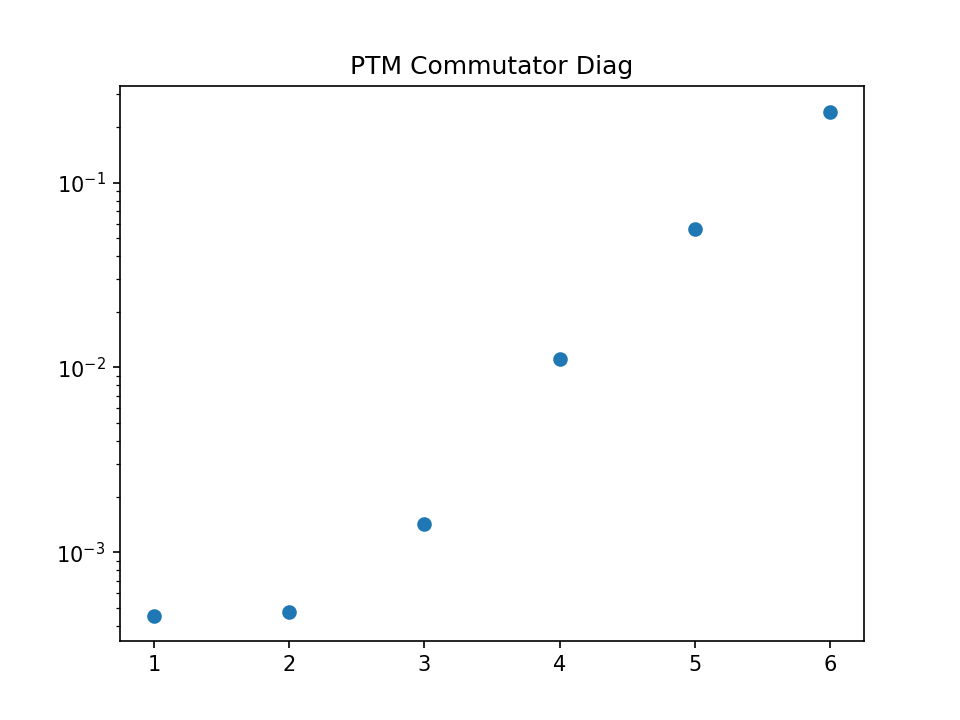
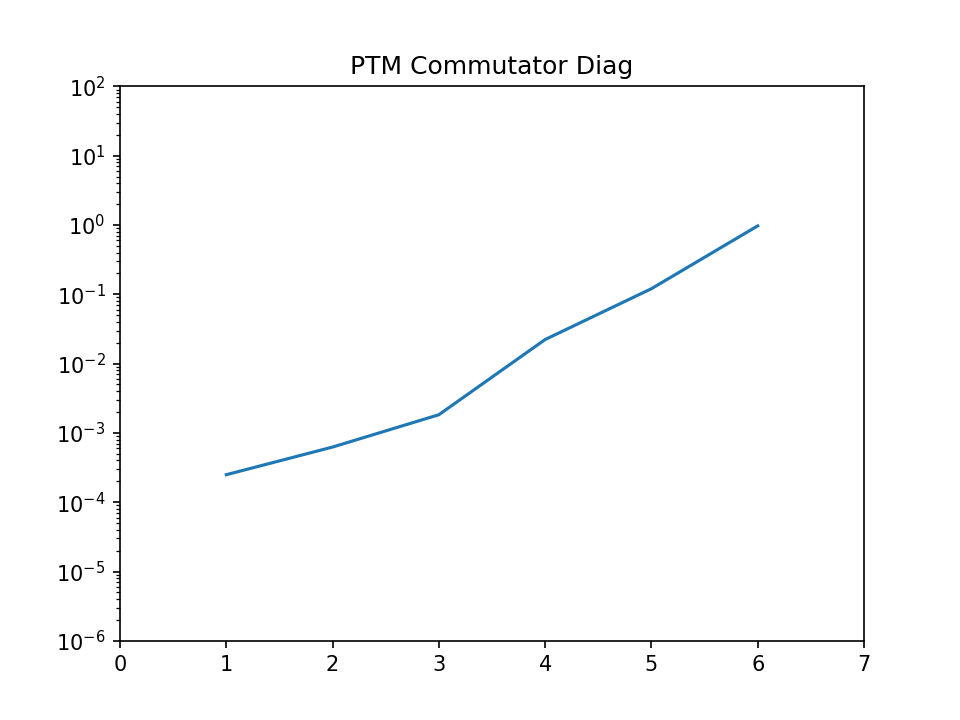
Mult,Comm,Anti,Conj and TPD first implementations

diff --git a/Commutator.py b/Commutator.py
@@ -7,126 +7,89 @@ import scipy.sparse as SS
 
 import TestMatrices as TM
 
-def single_commutator(pauli):
-	if pauli == "I":
-		return []
-	elif pauli == "X":
-		return [[2,3],[3,2]]
-	elif pauli == "Y":
-		return [[3,1],[1,3]]
-	elif pauli == "Z":
-		return [[1,2],[2,1]]
+from PTM_utils import matrix_slice, matrix_embedding
 
-def single_anticommutator(pauli):
-	if pauli == "I":
-		return [[0,0],[1,1],[2,2],[3,3]]
-	elif pauli == "X":
-		return [[0,1],[1,0]]
-	elif pauli == "Y":
-		return [[0,2],[2,0]]
-	elif pauli == "Z":
-		return [[0,3],[3,0]]
+import sys
+np.set_printoptions(suppress=True,linewidth=sys.maxsize,threshold=sys.maxsize)
+
+comX = np.array([[0,0,0,0],[0,0,0,0],[0,0,0,-1j],[0,0,1j,0]])
+comY = np.array([[0,0,0,0],[0,0,0,1j],[0,0,0,0],[0,-1j,0,0]])
+comZ = np.array([[0,0,0,0],[0,0,-1j,0],[0,1j,0,0],[0,0,0,0]])
+
+single_commutator = {"X":comX,"Y":comY,"Z":comZ}
+
+antiI = np.eye(4)
+antiX = np.array([[0,1,0,0],[1,0,0,0],[0,0,0,0],[0,0,0,0]])
+antiY = np.array([[0,0,1,0],[0,0,0,0],[1,0,0,0],[0,0,0,0]])
+antiZ = np.array([[0,0,0,1],[0,0,0,0],[0,0,0,0],[1,0,0,0]])
+single_anticommutator = {"I":antiI,"X":antiX,"Y":antiY,"Z":antiZ}
 
 # Datastructure
-pauliI = ["I",1.,np.add,[[0,0],[1,1]]]
-pauliX = ["X",1.,np.add,[[0,1],[1,0]]]
-pauliY = ["Y",1.j,np.subtract,[[0,1],[1,0]]]
-pauliZ = ["Z",1.,np.subtract,[[0,0],[1,1]]]
-paulis = [pauliI,pauliX,pauliY,pauliZ]
+pauliI = [1.,np.add,[0,3]]
+pauliX = [1.,np.add,[1,2]]
+pauliY = [1.j,np.subtract,[1,2]]
+pauliZ = [1.,np.subtract,[0,3]]
+paulis = {"I":pauliI,"X":pauliX,"Y":pauliY,"Z":pauliZ}
+pauliList = ["I","X","Y","Z"]
 
-def matrix_slice(matrix,coords):
-	debug = False
-	dim = matrix.shape[0]
-	bDim = int(dim/2)
-	if debug: print("Range 1", range(coords[0]*bDim,(coords[0]+1)*bDim))
-	if debug: print("Range 2", range(coords[1]*bDim,(coords[1]+1)*bDim))
-	return matrix[coords[0]*bDim:(coords[0]+1)*bDim,coords[1]*bDim:(coords[1]+1)*bDim]
-
-def matrix_embedding(sparse,coords,eDim):
-	debug = False
-	row,col,data = sparse
-	data = data*len(coords)
-	row_ind = []
-	col_ind = []
-	for coord in coords:
-		row_ind += [rowi + coord[0]*eDim for rowi in row]
-		col_ind += [coli + coord[1]*eDim for coli in col]
-	return [row_ind,col_ind,data]
-
-def PTM_commutator(matrix, factor=1., output="mat"):
+def PTM_commutator(matrix, factor=1.):
 	debug = False
 	"""
 	recursive commutators
 	"""
 	dim = matrix.shape[0]
 	qDim = dim.bit_length() - 1
-	row_ind = []
-	col_ind = []
-	data = []
+	PTMdim = 1 << (2*qDim)
+	PTM = np.zeros((PTMdim,PTMdim),dtype=np.complex64)
 	if qDim == 0:
-		return [[0],[0],[matrix[0][0]*factor]]
+		return np.array([matrix[0][0]*factor])
 	else:
-		for pauli in paulis:
-			rest = pauli[2](matrix_slice(matrix,pauli[3][0]), matrix_slice(matrix,pauli[3][1]))
+		Slices = matrix_slice(matrix)
+		for pauliInd in pauliList:
+			pauli = paulis[pauliInd]
+			rest = pauli[1](Slices[pauli[2][0]], Slices[pauli[2][1]])
 			# Use the tensorproduct commutator rule.
 			if rest.any():
-				if pauli[0] != "I":
-					PTMra = PTM_anticommutator(rest,factor*2.j*pauli[1],None)
-					PTMsc = single_commutator(pauli[0])
-					nrow,ncol,ndata = matrix_embedding(PTMra,PTMsc,4**(qDim-1))
-					row_ind += nrow
-					col_ind += ncol
-					data += ndata
+				if pauliInd != "I":
+					PTMra = PTM_anticommutator(rest,factor*2.j*pauli[0])
+					PTMsc = single_commutator[pauliInd]
+					PTM += np.reshape(np.tensordot(PTMsc,PTMra,axes=0),(PTMdim,PTMdim))
 					del PTMra,PTMsc
 
-				PTMrc = PTM_commutator(rest,factor*2*pauli[1],None)
-				PTMsa = single_anticommutator(pauli[0])
-				nrow,ncol,ndata = matrix_embedding(PTMrc,PTMsa,4**(qDim-1))
-				row_ind += nrow
-				col_ind += ncol
-				data += ndata
+				PTMrc = PTM_commutator(rest,factor*2*pauli[0])
+				PTMsa = single_anticommutator[pauliInd]
+				PTM += np.reshape(np.tensordot(PTMsa,PTMrc,axes=0),(PTMdim,PTMdim))
 				del PTMrc, PTMsa
-	if output == "mat":
-		return SS.csc_array((data, (row_ind, col_ind)), shape=(4**qDim,4**qDim)).toarray()
+	return PTM
 
-	return [row_ind,col_ind,data]
-
-def PTM_anticommutator(matrix, factor=1., output="mat"):
+def PTM_anticommutator(matrix, factor=1.):
 	"""
 	recursive anticommutators
 	"""
 	dim = matrix.shape[0]
 	qDim = dim.bit_length() - 1
-	row_ind = []
-	col_ind = []
-	data = []
+	PTMdim = 1 << (2*qDim)
+	PTM = np.zeros((PTMdim,PTMdim),dtype=np.complex64)
 	if qDim == 0:
-		return [[0],[0],[matrix[0][0]*factor]]
+		return np.array([matrix[0][0]*factor])
 	else:
-		for pauli in paulis:
-			rest = pauli[2](matrix_slice(matrix,pauli[3][0]), matrix_slice(matrix,pauli[3][1]))
+		Slices = matrix_slice(matrix)
+		for pauliInd in pauliList:
+			pauli = paulis[pauliInd]
+			rest = pauli[1](Slices[pauli[2][0]], Slices[pauli[2][1]])
 			# Use the tensorproduct anticommutator rule.
 			if rest.any():
-				PTMra = PTM_anticommutator(rest,factor*2.*pauli[1],None)
-				PTMsa = single_anticommutator(pauli[0])
-				nrow,ncol,ndata = matrix_embedding(PTMra,PTMsa,4**(qDim-1))
-				row_ind += nrow
-				col_ind += ncol
-				data += ndata
+				PTMra = PTM_anticommutator(rest,factor*2.*pauli[0])
+				PTMsa = single_anticommutator[pauliInd]
+				PTM += np.reshape(np.tensordot(PTMsa,PTMra,axes=0),(PTMdim,PTMdim))
 				del PTMra,PTMsa
-
-				PTMrc = PTM_commutator(rest,factor*2.j*pauli[1],None)
-				PTMsc = single_commutator(pauli[0])
-				nrow,ncol,ndata = matrix_embedding(PTMrc,PTMsc,4**(qDim-1))
-				row_ind += nrow
-				col_ind += ncol
-				data += ndata
-				del PTMrc, PTMsc
-
-	if output == "mat":
-		return SS.csc_array((data, (row_ind, col_ind)), shape=(4**qDim,4**qDim)).toarray()
-
-	return [row_ind,col_ind,data]
+				
+				if pauliInd != "I":
+					PTMrc = PTM_commutator(rest,factor*2.j*pauli[0])
+					PTMsc = single_commutator[pauliInd]
+					PTM += np.reshape(np.tensordot(PTMsc,PTMrc,axes=0),(PTMdim,PTMdim))
+					del PTMrc, PTMsc
+	return PTM
 		
 
 if __name__ == "__main__":

diff --git a/Benchmarking.py b/Benchmarking.py
@@ -6,21 +6,43 @@ import time
 import matplotlib.pyplot as plt
 
 
-from Commutator import PTM_commutator
+from Commutator import PTM_commutator,PTM_anticommutator
+from Multiplication import PTM_multiplication
+from Conjugation import PTM_conjugation
+from PTM_utils import matrix_slice
 import TestMatrices as TM
 
-if __name__ == "__main__":
-	maxQdim = 7
+maps = {"Commutator" : PTM_commutator, "Anticommutator" : PTM_anticommutator, "Multiplication" : PTM_multiplication, "Conjugation" : PTM_conjugation,"Slicing":matrix_slice}
+matrizes = {"Diag":TM.diagRandom,"Dense":TM.denseRandom,"Id":TM.identityMatrix}
+maxQdims = {"Commutator" : 7, "Anticommutator" : 7, "Multiplication" : 7, "Conjugation" : 5, "Slicing": 14}
+
+def benchmark(matrixType,mapType,maxQdim):
+	output = True
 	times = []
 	for qDim in range(1,maxQdim):
-		data = TM.diagRandom(2**qDim)
+		data = matrizes[matrixType](2**qDim)
 		start_time = timeit.default_timer()
-		PTM_commutator(data)
+		maps[mapType](data)
 		times.append(timeit.default_timer() - start_time)
-		print("Dim",qDim,timeit.default_timer() - start_time)
-	
+		if output: print("Dim:",qDim,"\t\t Time:",timeit.default_timer() - start_time)
+	return times
+
+def benchmarkPlot(matrixType,mapType,maxQdim):
+	times = benchmark(matrixType,mapType,maxQdim)
 	fig, ax = plt.subplots()
-	ax.scatter(range(1,maxQdim),times)
+	ax.plot(range(1,maxQdim),times)
 	ax.set_yscale('log')
-	ax.set_title(f"PTM Commutator Diag")
-	plt.savefig(f"PlotsPTM/PTMCommutatorDiag.png",dpi=150)
+	ax.set_xlim([0,maxQdim])
+	ax.set_ylim([10**(-6), 10**2])
+	ax.set_title(f"PTM {mapType} {matrixType}")
+	plt.savefig(f"PlotsPTM/PTM{mapType}{matrixType}.png",dpi=150)
+
+if __name__ == "__main__":
+	matrixTypes = ["Diag","Dense"]
+	mapTypes = ["Commutator","Anticommutator","Multiplication","Conjugation","Slicing"] # 
+	for matrixType in matrixTypes:
+		print("\n"+matrixType)
+		for mapType in mapTypes:
+			maxQdim = maxQdims[mapType]
+			print("\n"+mapType)
+			benchmarkPlot(matrixType,mapType,maxQdim)
